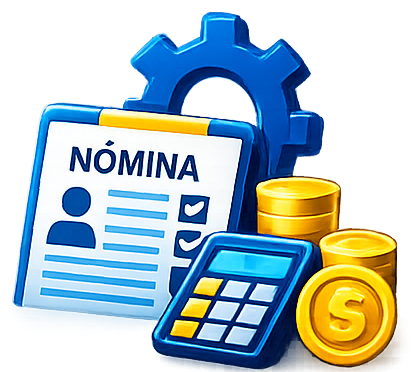
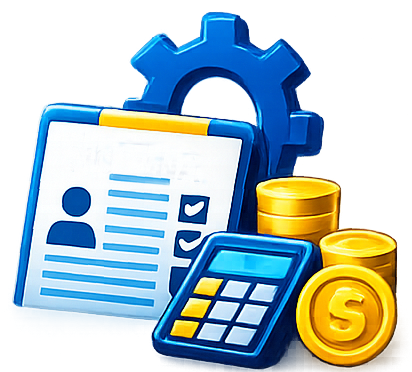
Portada: modulos pendientes, miniaturas y vista previa
Suma Costos, Inventarios y Administracion al ecosistema y al pie, con su
miniatura visible y una vista previa (imagen y descripcion) en el card Punto
de entrada. Agrega Inicio y Preguntas al menu y actualiza el logo final.

🤖 Generated with Codebuff

Changed region(s): [[0.1456, 0.3548, 0.4951, 0.5027]]

diff --git a/index.php b/index.php
@@ -389,6 +389,7 @@ $ecosistema = [
         'icono'   => 'fa-solid fa-money-check-dollar',
         'url'     => $base . '/nominas/',
         'etiqueta'=> 'Módulo de nóminas',
+        'imagen'  => $base . '/images/nominas.png',
     ],
     [
         'titulo'  => 'Facturación Electrónica',
@@ -396,6 +397,34 @@ $ecosistema = [
         'icono'   => 'fa-solid fa-file-invoice-dollar',
         'url'     => $base . '/facturacion/index.php',
         'etiqueta'=> 'Módulo de facturación',
+        'imagen'  => $base . '/images/facturacion.png',
+    ],
+    [
+        'titulo'  => 'Gestión de Costos',
+        'texto'   => 'Fichas de costo, gastos operativos, márgenes y proyecciones para controlar la rentabilidad.',
+        'icono'   => 'fa-solid fa-calculator',
+        'url'     => $base . '/costos/login.php',
+        'etiqueta'=> 'Módulo de costos',
+        'imagen'  => $base . '/images/costos.png',
+        'pendiente' => true,
+    ],
+    [
+        'titulo'  => 'Inventarios',
+        'texto'   => 'Control de stock, entradas y salidas, alertas de inventario mínimo y gestión de proveedores.',
+        'icono'   => 'fa-solid fa-boxes-stacked',
+        'url'     => $base . '/inventarios/login.php',
+        'etiqueta'=> 'Módulo de inventarios',
+        'imagen'  => $base . '/images/inventario.png',
+        'pendiente' => true,
+    ],
+    [
+        'titulo'  => 'Administración',
+        'texto'   => 'Usuarios, roles, parámetros globales, auditoría y configuración del sistema en un solo panel.',
+        'icono'   => 'fa-solid fa-user-shield',
+        'url'     => $base . '/administracion/index.php',
+        'etiqueta'=> 'Módulo de administración',
+        'imagen'  => $base . '/images/admin.png',
+        'pendiente' => true,
     ],
     [
         'titulo'  => 'Panel del Servidor',
@@ -1034,6 +1063,31 @@ $servicios = [
         box-shadow: var(--card-hover-shadow);
         outline: none;
     }
+    /* Miniatura del subsistema: siempre visible, alineada con el icono para no
+       tapar el título ni la descripción. */
+    .card-media {
+        position: absolute; top: 1.35rem; right: 1.35rem; z-index: 1;
+        width: 5.5rem; height: 3.6rem; border-radius: .8rem;
+        overflow: hidden;
+        border: 1px solid var(--border-strong);
+        box-shadow: 0 .6rem 1.4rem rgba(0, 0, 0, .35);
+        pointer-events: none;
+    }
+    .card-media img { display: block; width: 100%; height: 100%; object-fit: cover; }
+
+    /* Fondo del card destacado: muestra la imagen del subsistema que se señala. */
+    .card.is-featured { --featured-img: none; }
+    .card.is-featured::before {
+        content: "";
+        position: absolute; inset: 0; z-index: 0;
+        background-image: var(--featured-img);
+        background-size: cover; background-position: center;
+        opacity: 0;
+        transition: opacity .35s ease;
+        pointer-events: none;
+    }
+    .card.is-featured.is-preview::before { opacity: .3; }
+    .card.is-featured > * { position: relative; z-index: 1; }
     .card-icon {
         display: grid; place-items: center;
         width: 2.8rem; height: 2.8rem; border-radius: .8rem;
@@ -1190,6 +1244,20 @@ $servicios = [
     .footer-list a { display: inline-flex; align-items: center; gap: .5rem; }
     .footer-list i { width: 1rem; text-align: center; color: var(--subtle); font-size: .8rem; transition: color .15s; }
     .footer-list a:hover i { color: var(--cyan); }
+    /* Aviso para módulos del pie cuya página todavía no existe. */
+    .aviso-modulo {
+        position: fixed; left: 50%; bottom: 1.5rem; z-index: 10000;
+        display: flex; align-items: center; gap: .6rem;
+        max-width: calc(100vw - 2rem); padding: .75rem 1rem;
+        border-radius: .8rem; border: 1px solid var(--border);
+        background: rgba(15, 23, 42, .96); color: #e2e8f0;
+        box-shadow: 0 18px 40px rgba(0, 0, 0, .45); font-size: .82rem;
+        opacity: 0; pointer-events: none;
+        transform: translateX(-50%) translateY(1rem);
+        transition: opacity .2s ease, transform .2s ease;
+    }
+    .aviso-modulo.is-on { opacity: 1; transform: translateX(-50%) translateY(0); }
+    .aviso-modulo i { color: var(--cyan); }
 
     .footer-contact p { margin-bottom: 1rem; }
     .footer-contact a { display: inline-flex; align-items: center; gap: .5rem; }
@@ -1588,9 +1656,9 @@ $servicios = [
     .intro-bar {
         position: absolute;
         left: 50%;
-        bottom: max(4.5rem, 11vh);
-        width: min(40vmin, 280px);
-        height: 2px;
+        bottom: max(2.25rem, 5vh);
+        width: min(64vmin, 520px);
+        height: 3px;
         transform: translateX(-50%);
         background: rgba(255, 255, 255, .14);
         border-radius: 2px;
@@ -1619,6 +1687,11 @@ $servicios = [
         backdrop-filter: blur(8px);
         transition: background .2s ease, border-color .2s ease, color .2s ease;
     }
+    @media (max-width: 520px) {
+        /* En pantallas estrechas el botón sube para no pisar la barra. */
+        .intro-skip { top: max(1rem, 2vh); bottom: auto; right: 1rem; }
+        .intro-bar { bottom: max(1.25rem, 3vh); width: min(82vw, 360px); }
+    }
     .intro-skip:hover,
     .intro-skip:focus-visible {
         background: rgba(255, 255, 255, .12);
@@ -1634,7 +1707,7 @@ $servicios = [
     }
 </style>
 </head>
-<body>
+<body id="top">
 <!-- Intro animada: piezas del logo en images/anim. Se retira sola y se puede
      saltar; con «prefers-reduced-motion» no se muestra. El comportamiento
      está al pie del documento, junto al resto de scripts. -->
@@ -1669,8 +1742,10 @@ $servicios = [
             </span>
         </a>
         <nav class="nav-links" aria-label="Secciones">
+            <a href="#top"><i class="fa-solid fa-house" aria-hidden="true"></i> Inicio</a>
             <a href="#ecosistema"><i class="fa-solid fa-layer-group" aria-hidden="true"></i> Ecosistema</a>
             <a href="#servicios"><i class="fa-solid fa-screwdriver-wrench" aria-hidden="true"></i> Servicios</a>
+            <a href="#preguntas"><i class="fa-solid fa-circle-question" aria-hidden="true"></i> Preguntas</a>
             <a href="<?= $base ?>/soporte.php"><i class="fa-solid fa-headset" aria-hidden="true"></i> Soporte</a>
             <a href="<?= $base ?>/explorer.php"><i class="fa-solid fa-user-pen" aria-hidden="true"></i> Autor</a>
         </nav>
@@ -1693,8 +1768,10 @@ $servicios = [
          fila de píldoras desplazable dentro del propio header fijo. -->
     <div class="wrap">
         <nav class="mobile-nav" aria-label="Secciones">
+            <a href="#top"><i class="fa-solid fa-house" aria-hidden="true"></i> Inicio</a>
             <a href="#ecosistema"><i class="fa-solid fa-layer-group" aria-hidden="true"></i> Ecosistema</a>
             <a href="#servicios"><i class="fa-solid fa-screwdriver-wrench" aria-hidden="true"></i> Servicios</a>
+            <a href="#preguntas"><i class="fa-solid fa-circle-question" aria-hidden="true"></i> Preguntas</a>
             <a href="<?= $base ?>/soporte.php"><i class="fa-solid fa-headset" aria-hidden="true"></i> Soporte</a>
             <a href="<?= $base ?>/explorer.php"><i class="fa-solid fa-user-pen" aria-hidden="true"></i> Autor</a>
         </nav>
@@ -1898,19 +1975,24 @@ $servicios = [
 
         <div class="grid">
             <?php foreach ($ecosistema as $item): ?>
-                <a class="card reveal<?= !empty($item['destacada']) ? ' is-featured' : '' ?>" href="<?= htmlspecialchars($item['url'], ENT_QUOTES, 'UTF-8') ?>">
+                <a class="card reveal<?= !empty($item['destacada']) ? ' is-featured' : '' ?>" href="<?= htmlspecialchars($item['url'], ENT_QUOTES, 'UTF-8') ?>"<?= !empty($item['pendiente']) ? ' data-modulo-pendiente="' . htmlspecialchars($item['titulo'], ENT_QUOTES, 'UTF-8') . '"' : '' ?><?= !empty($item['imagen']) ? ' data-preview-img="' . htmlspecialchars($item['imagen'], ENT_QUOTES, 'UTF-8') . '"' : '' ?>>
                     <?php if (!empty($item['destacada'])): ?>
                         <span class="featured-flag"><i class="fa-solid fa-star" aria-hidden="true"></i> Punto de entrada</span>
                     <?php endif; ?>
+                    <?php if (!empty($item['imagen'])): ?>
+                    <span class="card-media" aria-hidden="true"><img src="<?= htmlspecialchars($item['imagen'], ENT_QUOTES, 'UTF-8') ?>" alt="" loading="lazy"></span>
+                    <?php endif; ?>
                     <span class="card-icon"><i class="<?= htmlspecialchars($item['icono'], ENT_QUOTES, 'UTF-8') ?>"></i></span>
                     <h3><?= htmlspecialchars($item['titulo'], ENT_QUOTES, 'UTF-8') ?></h3>
-                    <p><?= htmlspecialchars($item['texto'], ENT_QUOTES, 'UTF-8') ?></p>
+                    <p class="card-desc"><?= htmlspecialchars($item['texto'], ENT_QUOTES, 'UTF-8') ?></p>
                     <?php if (!empty($item['destacada'])): ?>
                         <ul class="card-chips">
                             <li><i class="fa-solid fa-file-invoice-dollar" aria-hidden="true"></i> Facturación</li>
                             <li><i class="fa-solid fa-money-check-dollar" aria-hidden="true"></i> Nóminas</li>
                             <li><i class="fa-solid fa-chart-line" aria-hidden="true"></i> Reportes</li>
                             <li><i class="fa-solid fa-boxes-stacked" aria-hidden="true"></i> Inventarios</li>
+                            <li><i class="fa-solid fa-calculator" aria-hidden="true"></i> Costos</li>
+                            <li><i class="fa-solid fa-user-shield" aria-hidden="true"></i> Administración</li>
                         </ul>
                     <?php endif; ?>
                     <span class="card-foot">
@@ -2024,6 +2106,9 @@ $servicios = [
                 <li><a href="<?= $base ?>/index.php"><i class="fa-solid fa-wallet" aria-hidden="true"></i> Ecosistema Financiero</a></li>
                 <li><a href="<?= $base ?>/nominas/"><i class="fa-solid fa-money-check-dollar" aria-hidden="true"></i> Nóminas</a></li>
                 <li><a href="<?= $base ?>/facturacion/index.php"><i class="fa-solid fa-file-invoice-dollar" aria-hidden="true"></i> Facturación</a></li>
+                <li><a href="<?= $base ?>/costos/login.php" data-modulo-pendiente="Costos"><i class="fa-solid fa-calculator" aria-hidden="true"></i> Costos</a></li>
+                <li><a href="<?= $base ?>/inventarios/login.php" data-modulo-pendiente="Inventarios"><i class="fa-solid fa-boxes-stacked" aria-hidden="true"></i> Inventarios</a></li>
+                <li><a href="<?= $base ?>/administracion/index.php" data-modulo-pendiente="Administración"><i class="fa-solid fa-user-shield" aria-hidden="true"></i> Administración</a></li>
                 <li><a href="<?= $base ?>/phpinfo/"><i class="fa-solid fa-server" aria-hidden="true"></i> Servidor Info PHP</a></li>
                 <li><a href="<?= $base ?>/InstalarBD/InstalarBD.php"><i class="fa-solid fa-database" aria-hidden="true"></i> Instalador de BD</a></li>
             </ul>
@@ -2262,6 +2347,70 @@ $servicios = [
         // Red de seguridad: aunque falle un paso, la portada queda libre.
         esperar(terminar, 14000);
         esperar(function () { mostrarCapa(0); }, 220);
+    })();
+
+    // Al señalar una tarjeta de subsistema, su imagen pasa al fondo del card
+    // destacado «Punto de entrada»; al salir se retira.
+    (function () {
+        var destacada = document.querySelector('.card.is-featured');
+        if (!destacada) { return; }
+        var tarjetas = document.querySelectorAll('[data-preview-img]');
+        var descDestacada = destacada.querySelector('.card-desc');
+        var textoOriginal = descDestacada ? descDestacada.textContent : '';
+
+        function mostrar(url, texto) {
+            destacada.style.setProperty('--featured-img', 'url("' + url + '")');
+            destacada.classList.add('is-preview');
+            if (descDestacada && texto) { descDestacada.textContent = texto; }
+        }
+
+        function limpiar() {
+            destacada.classList.remove('is-preview');
+            destacada.style.removeProperty('--featured-img');
+            if (descDestacada) { descDestacada.textContent = textoOriginal; }
+        }
+
+        for (var i = 0; i < tarjetas.length; i++) {
+            (function (tarjeta) {
+                var url = tarjeta.getAttribute('data-preview-img');
+                var desc = tarjeta.querySelector('.card-desc');
+                var texto = desc ? desc.textContent : '';
+                tarjeta.addEventListener('mouseenter', function () { mostrar(url, texto); });
+                tarjeta.addEventListener('mouseleave', limpiar);
+                tarjeta.addEventListener('focus', function () { mostrar(url, texto); });
+                tarjeta.addEventListener('blur', limpiar);
+            })(tarjetas[i]);
+        }
+    })();
+
+    // Los enlaces del pie a módulos que aún no existen avisan en el sitio en
+    // lugar de llevar a un 404. Al publicar el módulo, quitar el atributo
+    // data-modulo-pendiente y el enlace funciona sin tocar nada más.
+    (function () {
+        var aviso = null;
+        var temporizador = null;
+
+        function mostrarAviso(nombre) {
+            if (!aviso) {
+                aviso = document.createElement('div');
+                aviso.className = 'aviso-modulo';
+                aviso.setAttribute('role', 'status');
+                aviso.innerHTML = '<i class="fa-solid fa-circle-info" aria-hidden="true"></i><span></span>';
+                document.body.appendChild(aviso);
+            }
+            aviso.querySelector('span').textContent = 'El módulo ' + nombre + ' todavía no está disponible.';
+            aviso.classList.add('is-on');
+            window.clearTimeout(temporizador);
+            temporizador = window.setTimeout(function () { aviso.classList.remove('is-on'); }, 4000);
+        }
+
+        var enlaces = document.querySelectorAll('[data-modulo-pendiente]');
+        for (var i = 0; i < enlaces.length; i++) {
+            enlaces[i].addEventListener('click', function (e) {
+                e.preventDefault();
+                mostrarAviso(this.getAttribute('data-modulo-pendiente'));
+            });
+        }
     })();
 </script>
 </body>

diff --git a/servicios/index.php b/servicios/index.php
@@ -1709,9 +1709,6 @@ function showModuleWelcome(card) {
                         <li>Soporte técnico prioritario</li>
                     </ul>
                 </div>
-                <p style="margin-top: 15px; font-size: 0.85rem; color: #94a3b8;">
-                    <i class="fas fa-clock"></i> Último acceso: Hoy a las ${new Date().toLocaleTimeString()}
-                </p>
             </div>
         `,
         background: '#0f172a',

diff --git a/servicios/phpinfo/index.php b/servicios/phpinfo/index.php
@@ -4,6 +4,7 @@
     <meta charset="utf-8" />
     <meta name="viewport" content="width=device-width, initial-scale=1" />
     <title>USBWebserverUnicornio · Panel de Información</title>
+    <link rel="icon" type="image/png" href="../images/favicon.png">
 
     <link href="../css/bootstrap.min.css" rel="stylesheet">
     <link href="../css/font-awesome6.4.0/css/all.min.css" rel="stylesheet">
